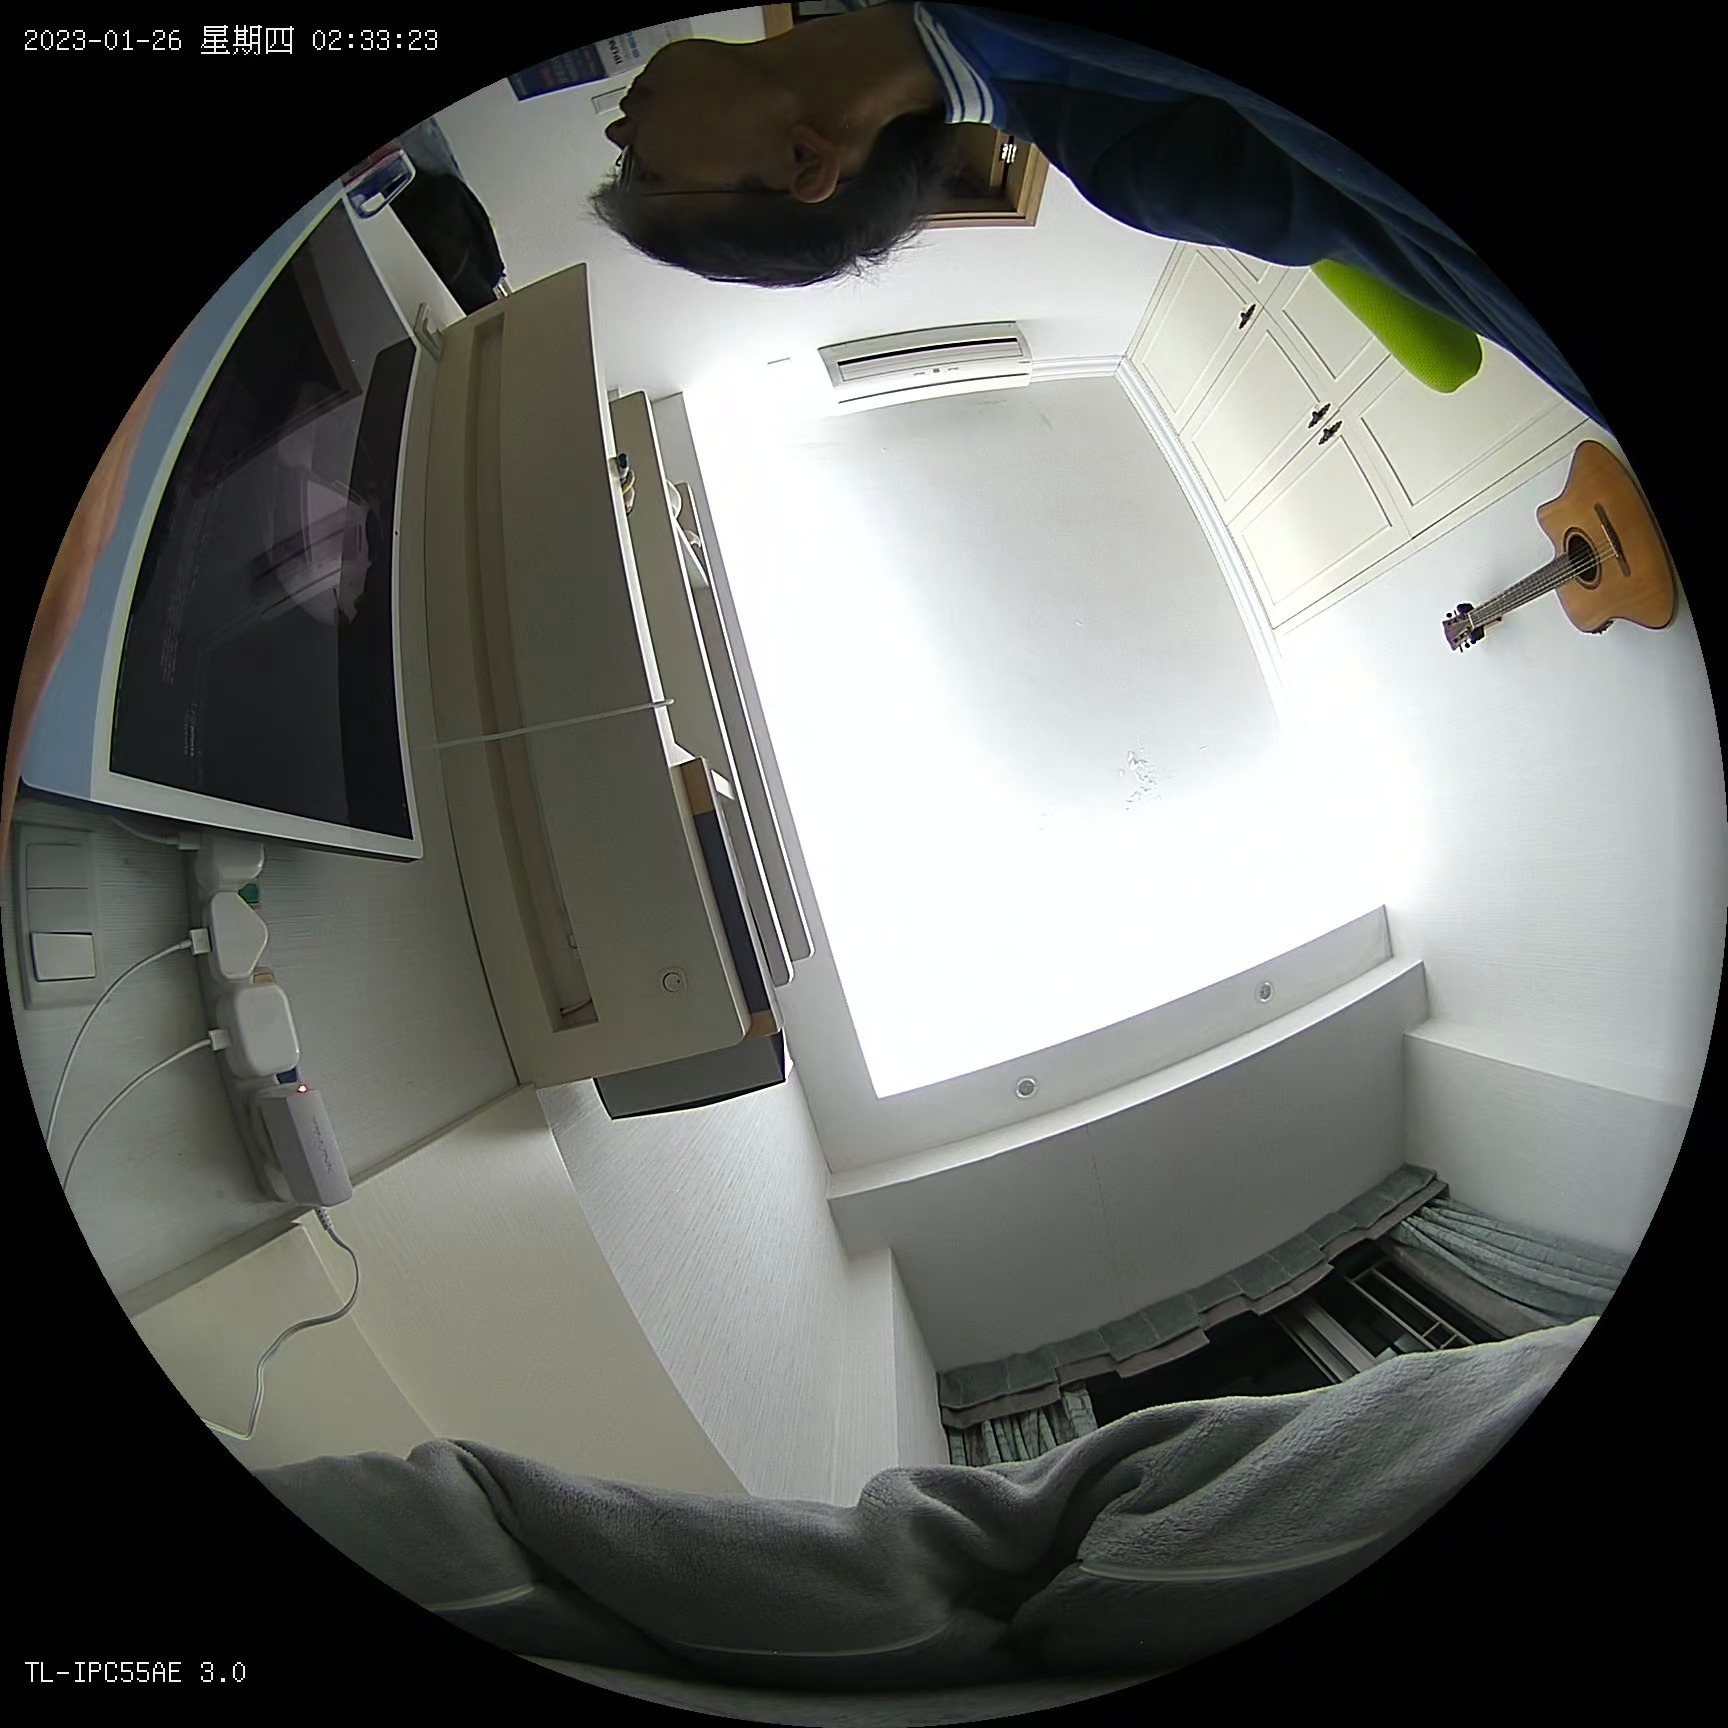
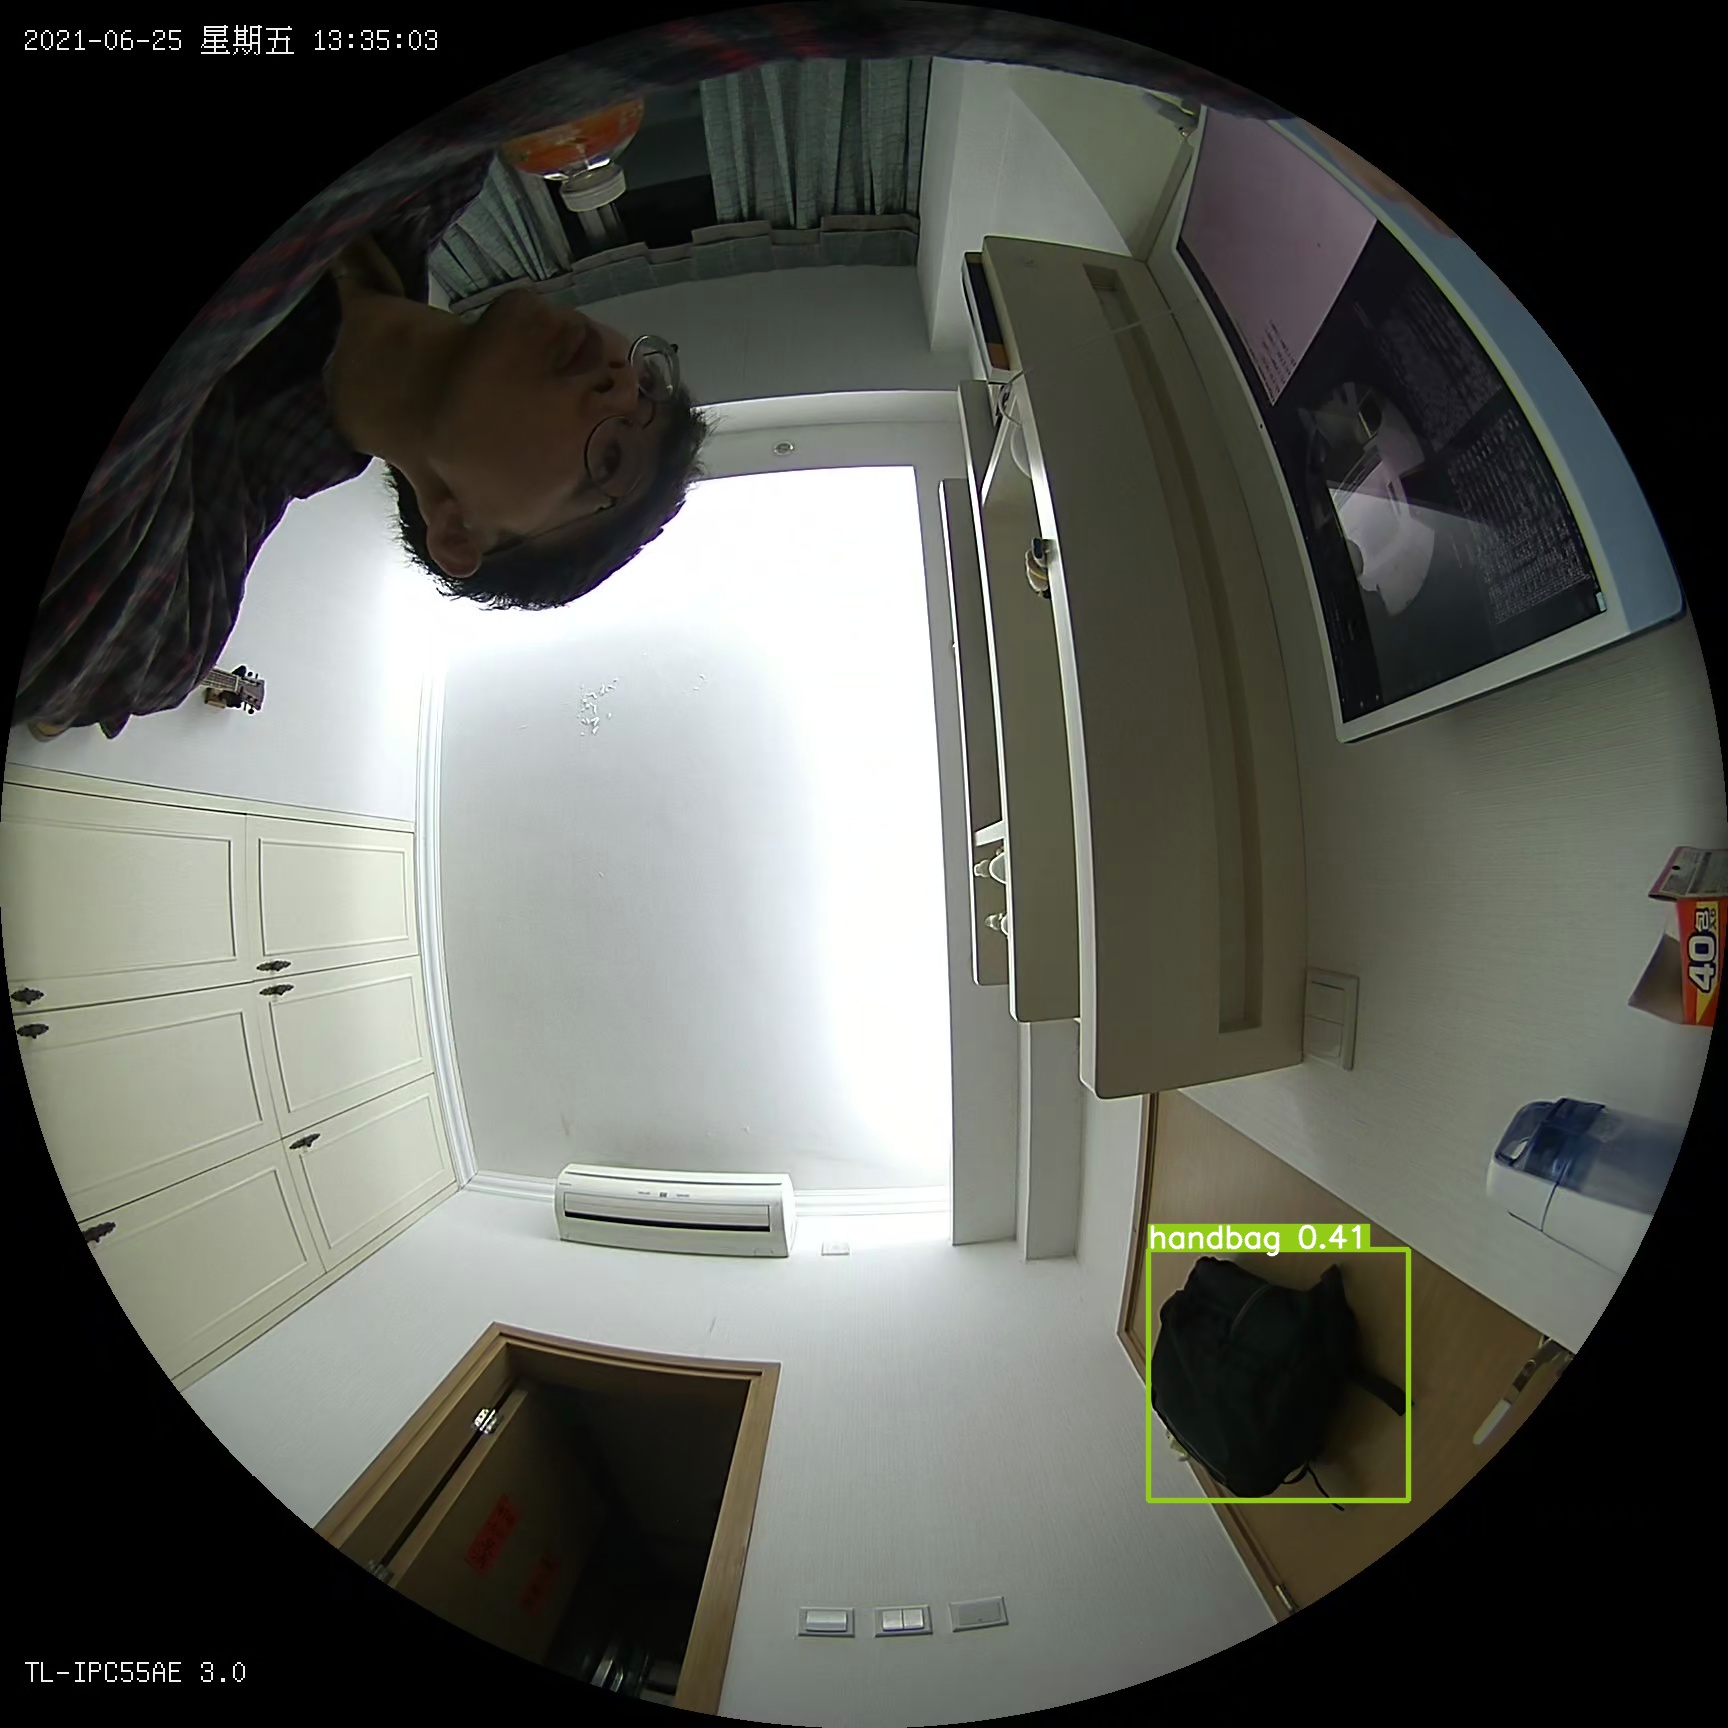
Compare carslot vacancy logic

diff --git a/templates/carslots.html b/templates/carslots.html
@@ -1,0 +1,5 @@
+<h1>Object name: {{object_name}}</h1>
+<h1>x1: {{x1}}</h1>
+<h1>y1: {{y1}}</h1>
+<h1>x2: {{x2}}</h1>
+<h1>y2: {{y2}}</h1>

diff --git a/carslots/views.py b/carslots/views.py
@@ -3,24 +3,84 @@ from django.http import HttpResponse
 from .models import Carslot
 
 # Create your views here.
-def test(request):
+
+data = {
+    "object_name": [],
+    "x1": [],
+    "y1": [],
+    "x2": [],
+    "y2": []
+}
+def process_data(request):
     # field_name = 'slotId'
     # obj = Carslot.objects.first()
     # field_object = Carslot._meta.get_field(field_name)
     # field_value = field_object.value_from_object(obj)
+
+
+    # should get coordinates and compare to generate the results and pass it to a global var
+    # if request.method == "POST":
+
+    #     global object_name
+    #     object_name = request.POST["object_name"]
+    #     global x1
+    #     x1 = request.POST["x1"]
+    #     global y1
+    #     y1 = request.POST["y1"]
+    #     global x2
+    #     x2 = request.POST["x2"]
+    #     global y2
+    #     y2 = request.POST["y2"]
+
+    #     print(object_name)
+    #     print(x1)
+    #     print(y1)
+    #     print(x2)
+    #     print(y2)
+    #     data = {
+    #         'x1': "none",
+    #         'y1': "none",
+    #         'x2': "none",
+    #         'y2': "none",
+    #         "object_name": "none"
+    #     }
+    #     return render(request, "carslots.html", data)
+    
     if request.method == "POST":
-        object_name = request.POST["object_name"]
-        x1 = request.POST["x1"]
-        y1 = request.POST["y1"]
-        x2 = request.POST["x2"]
-        y2 = request.POST["y2"]
+        global data
+        for key in request.POST.keys():
+            data[key] = request.POST.getlist(key)
+        print(data)
+        return HttpResponse("<h1>allgood</h1>")
 
-        print(object_name)
-        print(x1)
-        print(y1)
-        print(x2)
-        print(y2)
-    else:
-        print("Post not received")
+    if request.method == "GET":
+        helper_function()
+        # data = {
+        #     'x1': x1,
+        #     'y1': y1,
+        #     'x2': x2,
+        #     'y2': y2,
+        #     "object_name": object_name
+        # }
+        return render(request, "carslots.html", data)
+    
 
-    return HttpResponse("<h1>test</h1>")
+def helper_function():
+    global data
+    result = {}
+    for i in range(len(data["object_name"])):
+        # if data["object_name"][i] != "person":
+        #     continue
+        for carslot in Carslot.objects.all():
+            if int(data["x1"][i]) > carslot.x1 and int(data["y1"][i]) > carslot.y1 and int(data["x2"][i]) < carslot.x2 and int(data["y2"][i]) < carslot.y2:
+                result[carslot.slotId] = True
+    print(result)
+
+    # for carslot in Carslot.objects.all():
+
+    #     print(carslot.slotId)
+    #     print(carslot.x1)
+    #     print(carslot.y1)
+    #     print(carslot.x2)
+    #     print(carslot.y2)
+

diff --git a/yolov5/detect.py b/yolov5/detect.py
@@ -171,6 +171,14 @@ def run(
                     s += f"{n} {names[int(c)]}{'s' * (n > 1)}, "  # add to string
 
                 # Write results
+                post_data = {
+                    "object_name": [],
+                    "x1": [],
+                    "y1": [],
+                    "x2": [],
+                    "y2": []
+                }
+                counter = 0
                 for *xyxy, conf, cls in reversed(det):
                     if save_txt:  # Write to file
                         xywh = (xyxy2xywh(torch.tensor(xyxy).view(1, 4)) / gn).view(-1).tolist()  # normalized xywh
@@ -183,34 +191,19 @@ def run(
                         label = None if hide_labels else (names[c] if hide_conf else f'{names[c]} {conf:.2f}')
                         annotator.box_label(xyxy, label, color=colors(c, True))
 
-                        endpoint = "http://localhost:8000/carslots/"
-                        data = {
-                            'x1': str(int(xyxy[0].item())),
-                            'y1': str(int(xyxy[1].item())),
-                            'x2': str(int(xyxy[2].item())),
-                            'y2': str(int(xyxy[3].item())),
-                            "object_name": names[int(cls)]
-                        }
-                        requests.post(url = endpoint, data = data)
-
-                        x1 = int(xyxy[0].item())
-                        y1 = int(xyxy[1].item())
-                        x2 = int(xyxy[2].item())
-                        y2 = int(xyxy[3].item())
-
                         # Can be used when integrating with CNN
                         # confidence_score = conf
-                        class_index = cls
-                        object_name = names[int(cls)]
-
-                        print('bounding box is ', x1, y1, x2, y2)
-                        print('class index is ', class_index)
-                        print('detected object name is ', object_name)
+                        post_data["object_name"].append(names[int(cls)])
+                        post_data["x1"].append(str(int(xyxy[0].item())))
+                        post_data["y1"].append(str(int(xyxy[1].item())))
+                        post_data["x2"].append(str(int(xyxy[2].item())))
+                        post_data["y2"].append(str(int(xyxy[3].item())))
                         # Pass params to backend
-
-
                     if save_crop:
                         save_one_box(xyxy, imc, file=save_dir / 'crops' / names[c] / f'{p.stem}.jpg', BGR=True)
+                print(post_data)
+                endpoint = "http://localhost:8000/carslots/"
+                requests.post(url = endpoint, data = post_data)
 
             # Stream results
             im0 = annotator.result()

diff --git a/runDetect.py b/runDetect.py
@@ -48,7 +48,7 @@ while cap.isOpened():
 
 
         # Show frame for testing
-        cv2.imshow('frame', frame)
+        # cv2.imshow('frame', frame)
         cv2.waitKey(1)
 
     elapsed_time_24h = time.time() - start_time_24h

diff --git a/carslots/urls.py b/carslots/urls.py
@@ -2,5 +2,5 @@ from django.urls import path
 from . import views
 
 urlpatterns = [
-    path('', views.test, name='test'),
+    path('', views.process_data, name='process_data'),
 ]
